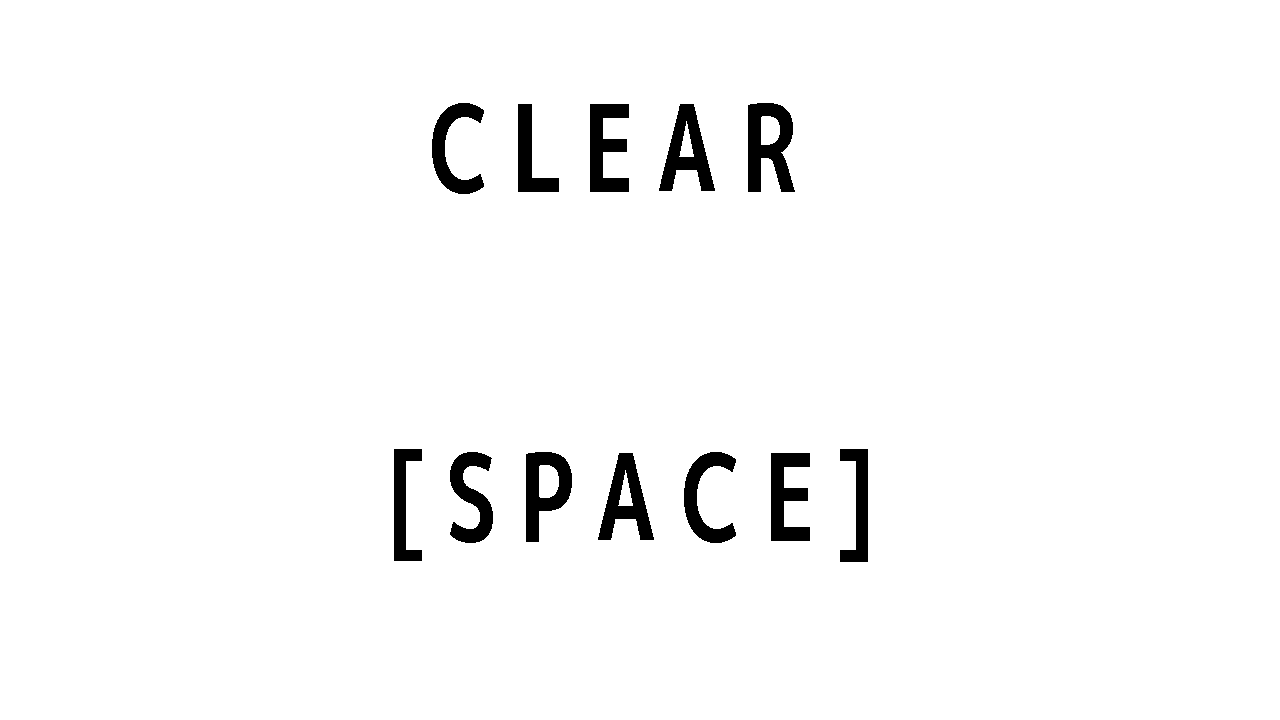
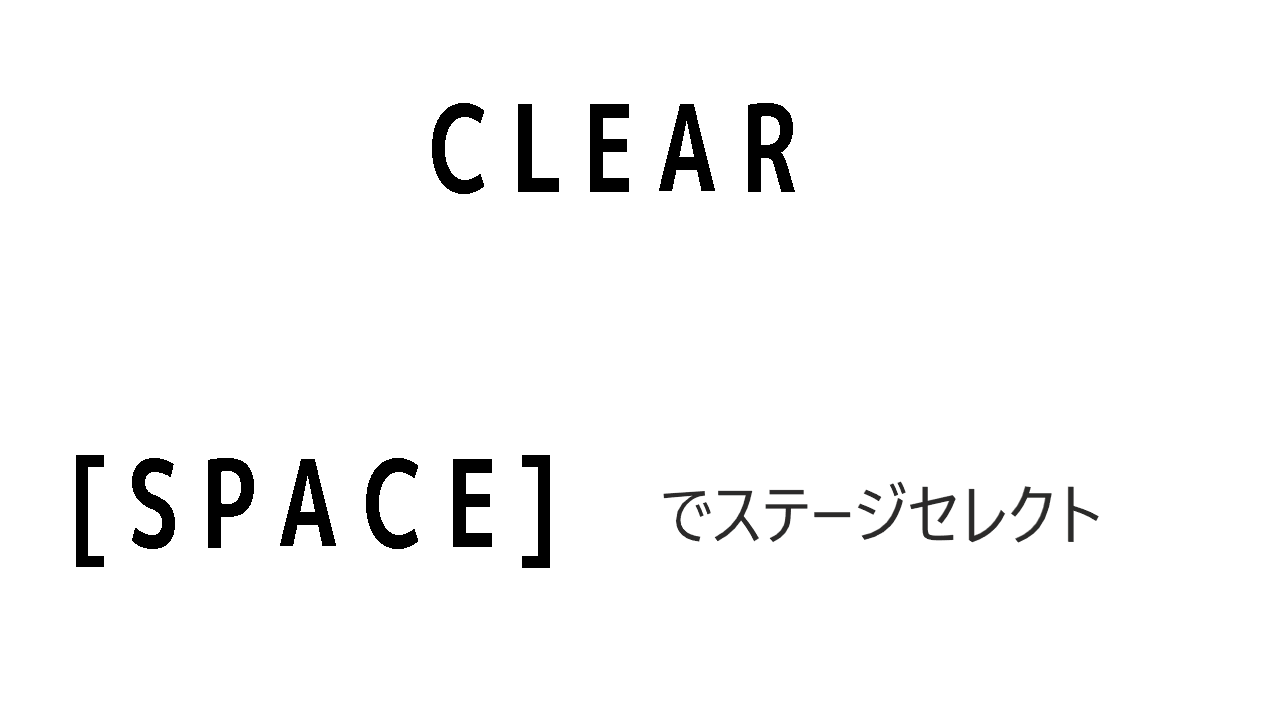
クリア時のスプライトなど追加

Changed region(s): [[0.0625, 0.6111, 0.875, 0.7944]]

diff --git a/User/SCENE/GameScene.cpp b/User/SCENE/GameScene.cpp
@@ -210,7 +210,7 @@ void GameScene::Initialize(DirectXCommon* dxCommon, Input* input) {
 	elementMna = new ElementManager();
 	elementMna->Initialize(input, map);
 	elementMna->SetPlayer(player_);
-	elementMna->Reset(map);
+	elementMna->Reset(map, stageNmb);
 
 	//タイトル
 	title_ = new Title();
@@ -276,7 +276,7 @@ void GameScene::Update() {
 			pSourceVoice[0]->SetVolume(0.3f);
 			soundCheckFlag = 1;
 		}
-		
+
 		if (input->TriggerKey(DIK_A)) {
 			if (stageNmb > 0) {
 				selectCount--;
@@ -306,7 +306,7 @@ void GameScene::Update() {
 			pSourceVoice[1] = audio->PlayWave("open.wav");
 			pSourceVoice[1]->SetVolume(0.4f);
 			soundCheckFlag2 = 1;
-			
+
 			sceneNo_ = SceneNo::GAME;
 		}
 		break;
@@ -373,17 +373,19 @@ void GameScene::Update() {
 				sceneNo_ = SceneNo::CLEAR;
 			}
 		}
+		if (input->TriggerKey(DIK_L)) {
+			sceneNo_ = SceneNo::STAGESELECT;
+		}
 		break;
 	case SceneNo::CLEAR:
 		if (sceneNo_ == SceneNo::CLEAR) {
 			player_->Reset(map);
-			elementMna->Reset(map);
+			elementMna->Reset(map,stageNmb);
 			elementMna->Update(player_->GetWorldPosition());
 			if (input->TriggerKey(DIK_SPACE)) {
 
-
-			if (input->TriggerKey(DIK_L)) {
 				sceneNo_ = SceneNo::STAGESELECT;
+				
 			}
 		}
 	}
@@ -479,15 +481,16 @@ void GameScene::Draw() {
 
 		//3Dオブジェクト描画後処理
 		Object3d::PostDraw();
-		//クリア
-		if (Clearflag == 1) {
-			clearSprite->Draw();
-		}
 
 		//// パーティクル UI FBX スプライト描画
 		//player_->FbxDraw();
 	}
+	if (sceneNo_ == SceneNo::CLEAR) {
+		
+		clearSprite->Draw();
+		
 
+	}
 }
 
 Vector3 GameScene::bVelocity(Vector3& velocity, Transform& worldTransform)

diff --git a/Element/ElementManager.cpp b/Element/ElementManager.cpp
@@ -338,7 +338,7 @@ void ElementManager::Finalize()
 		});
 }
 
-void ElementManager::Reset(int map)
+void ElementManager::Reset(int map,int stageNmb)
 {
 	Finalize();
 	map_ = map;
@@ -356,7 +356,8 @@ void ElementManager::Reset(int map)
 			}
 		}
 	}
-	EnemyPopComandReset(map);
+	clearFrame = 0.0f;
+	EnemyPopComandReset(stageNmb);
 }
 
 bool ElementManager::ClearFlag()

diff --git a/Element/ElementManager.h b/Element/ElementManager.h
@@ -45,7 +45,7 @@ public:
 	void SetPlayer(Player* player) { player_ = player; }
 	void Finalize();
 
-	void Reset(int map);
+	void Reset(int map, int stageNmb);
 
 	bool ClearFlag();
 
